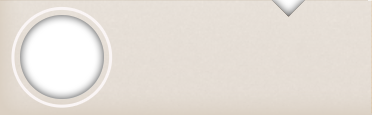
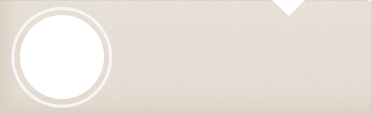
Trab layering

Changed region(s): [[0.0296, 0.1304, 0.2957, 0.8609], [0.7097, 0.0, 0.828, 0.1565]]

diff --git a/vendor/assets/stylesheets/tabs.css b/vendor/assets/stylesheets/tabs.css
@@ -194,12 +194,12 @@ h3, p {
 }
 
 .picBoxContainer {
-    width: 323px;
+    width: 322px;
     height: 192px;
     position: relative;
     overflow: hidden;
-    margin-left: 30px;
-    margin-top: 8px;
+    margin-left: 32px;
+    margin-top: 10px;
     margin-bottom: 8px;
 }
 
@@ -220,6 +220,21 @@ h3, p {
 
 .teamPic {
     position: absolute;
+    overflow: hidden;
+    height: 233px;
+}
+
+.tourPic {
+    position: absolute;
+    overflow: hidden;
+    height: 220px;
+}
+
+.iconNoPic {
+    position: absolute;
+    width: 80px;
+    margin-top: 232px;
+    margin-left: 22px;
 }
 
 .cutOutContainer {
@@ -250,7 +265,7 @@ h3, p {
 .cutOutLeft {
     position: absolute;
     margin-top: 215px;
-    z-index: 10;
+    z-index: 1;
 }
 
 .manFishRight {
@@ -287,9 +302,9 @@ h3, p {
 }
 
 .tourPersonText {
-    margin-left: 100px;
+    margin-left: 110px;
     width: 220px;
-    margin-bottom: 32px;
+
 }
 
     .tourPersonText h3 {
@@ -308,13 +323,15 @@ h3, p {
 
 .tourPersonMain {
     position: absolute;
-    margin-top: -12px;
-    margin-left: 16px;
+    margin-top: -4px;
+    margin-left: 23px;
 }
 
 .teamPerson {
     position: absolute;
-    margin-top: -18px;
+    margin-top: -17px;
+    margin-left: 4px;
+    z-index: 9;
 }
 
 .teamPersonText {
@@ -455,7 +472,7 @@ table {
 .teamContRight {
     display: block;
     float: right;
-    width: 380px;
+    width: 378px;
     height: 100%;
     /* Safari 4-5, Chrome 1-9 */
     background: -webkit-gradient(linear, 0% 0%, 0% 100%, from(#eee9de), to(#e1cfb6));
